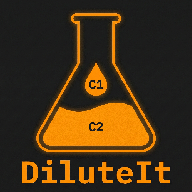
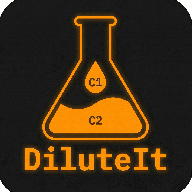
V1.2

diff --git a/index.html b/index.html
@@ -116,10 +116,20 @@
     .header-title {
       margin: 0;
       color: var(--accent);
-      text-transform: uppercase;
-      font-size: 1.8rem;
-      letter-spacing: 0.03em;
+      font-family: "Segoe UI", "Trebuchet MS", Arial, sans-serif;
+      font-weight: 800;
+      text-transform: none;
+      font-size: 2rem;
+      letter-spacing: 0.01em;
+      line-height: 1;
       text-shadow: 0 0 10px rgba(255, 152, 0, 0.06);
+    }
+    .title-dilute {
+      color: var(--accent);
+    }
+
+    .title-it {
+      color: #ffd54f;
     }
 
     .header-subtitle {
@@ -542,7 +552,9 @@
       <div class="brand">
         <img src="./icon-192.png" alt="DiluteIt logo" class="brand-logo" />
         <div>
-          <h1 class="header-title">DiluteIt</h1>
+          <h1 class="header-title">
+            <span class="title-dilute">Dilute</span><span class="title-it">It</span>
+          </h1>
           <div class="header-subtitle" data-i18n="subtitle">Host Cell Lab Tools</div>
         </div>
       </div>
